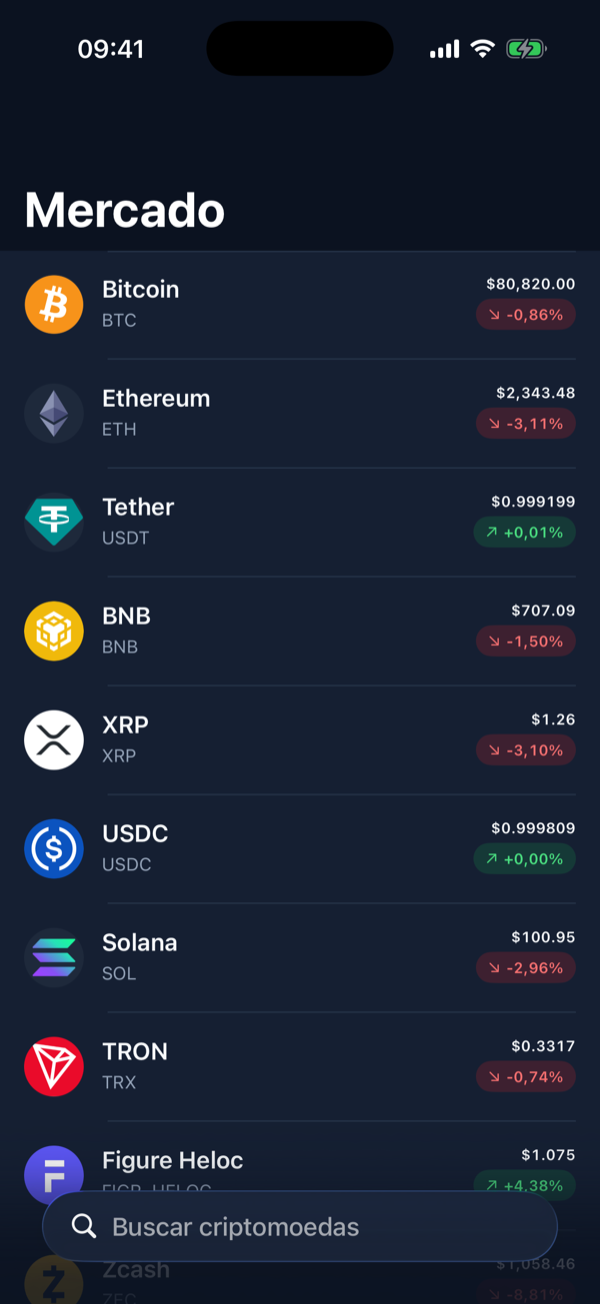
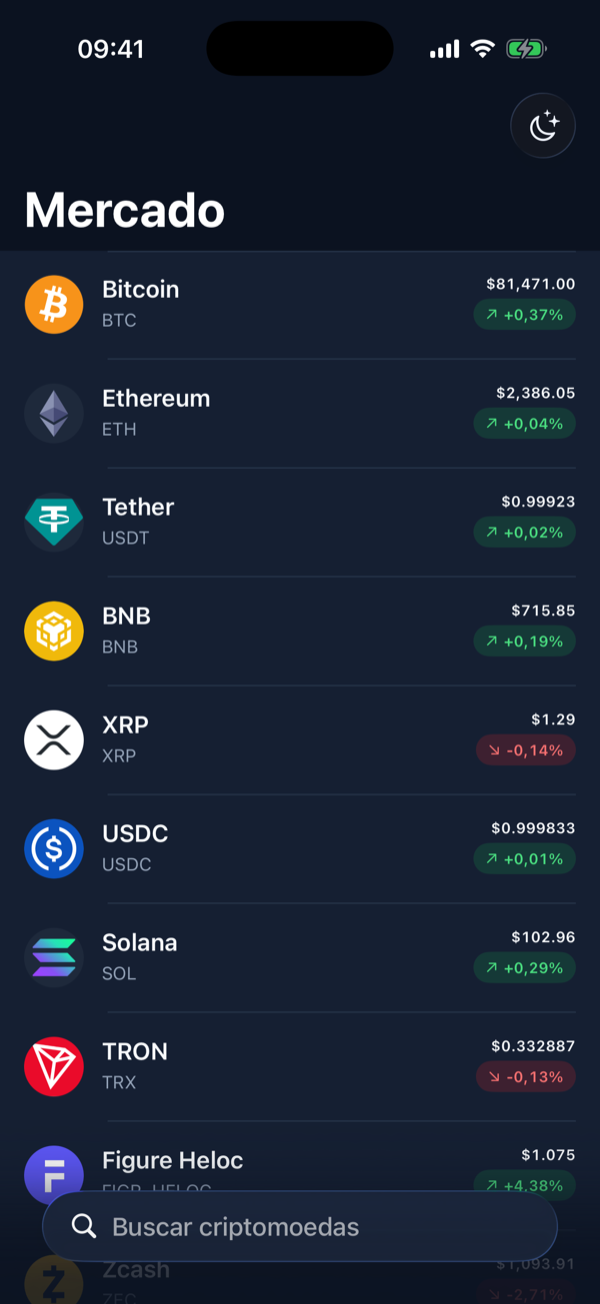
docs: atualiza README e screenshots
Documenta o seletor de aparência e o ThemeManager, troca as capturas da lista pelas versões com o botão de aparência e adiciona o menu aberto à galeria.

diff --git a/README.md b/README.md
@@ -26,10 +26,11 @@
 </p>
 
 <p align="center">
-  <img src="docs/screenshots/list-light.png" alt="Lista de criptomoedas no tema claro, com ícone, nome, símbolo, preço em dólar e badge de variação de 24 horas" width="200" />
-  <img src="docs/screenshots/list-dark.png" alt="A mesma lista no tema escuro" width="200" />
-  <img src="docs/screenshots/detail.png" alt="Detalhe do Bitcoin com preço, variação, preço há 24 horas, máxima, mínima, market cap e gráfico de 7 dias" width="200" />
-  <img src="docs/screenshots/search.png" alt="Busca por usd filtrando as stablecoins carregadas" width="200" />
+  <img src="docs/screenshots/list-light.png" alt="Lista de criptomoedas no tema claro, com ícone, nome, símbolo, preço em dólar, badge de variação de 24 horas e botão de aparência" width="160" />
+  <img src="docs/screenshots/list-dark.png" alt="A mesma lista no tema escuro, escolhido pelo seletor de aparência" width="160" />
+  <img src="docs/screenshots/appearance-menu.png" alt="Menu de aparência aberto com as opções Automático, Claro e Escuro" width="160" />
+  <img src="docs/screenshots/detail.png" alt="Detalhe do Bitcoin com preço, variação, preço há 24 horas, máxima, mínima, market cap e gráfico de 7 dias" width="160" />
+  <img src="docs/screenshots/search.png" alt="Busca por usd filtrando as stablecoins carregadas" width="160" />
 </p>
 
 ---
@@ -48,7 +49,7 @@ O foco está em arquitetura clara, uso idiomático de RxSwift e testes de compor
 - Pull-to-refresh.
 - Detalhe do ativo: preço, variação, preço há 24h, máxima e mínima de 24h, market cap e gráfico de 7 dias.
 - Estados de loading (skeleton), lista vazia, busca sem resultado e erro com retry; o gráfico tem retry próprio.
-- Temas claro e escuro.
+- Seletor de aparência na lista: Automático (segue o sistema), Claro ou Escuro, aplicado na hora em todas as telas e salvo localmente para os próximos acessos.
 - Acessibilidade: Dynamic Type e rótulos de VoiceOver em linhas, badges e gráfico.
 
 ## Stack
@@ -86,8 +87,9 @@ flowchart LR
 
 | Componente | Responsabilidade |
 |---|---|
-| `AppDependencies` | Ponto de composição: cria o serviço e monta cada tela com suas dependências |
+| `AppDependencies` | Ponto de composição: cria o serviço e o `ThemeManager` e monta cada tela com suas dependências |
 | `AppCoordinator` | Navegação: lista como raiz e push do detalhe |
+| `ThemeManager` | Preferência de aparência: guarda a escolha no `UserDefaults` e a aplica na janela principal |
 | View controllers | Layout UIKit, eventos e binding dos estados |
 | View models | Estado de apresentação, busca, paginação e formatação; não importam UIKit |
 | `CoinGeckoService` | Operações da CoinGecko e decodificação; recebe `page`/`perPage` a cada chamada, sem guardar estado de paginação |
@@ -97,7 +99,7 @@ O SRP aparece nas fronteiras. O `CoinGeckoService` recebe `page` e `perPage` em 
 
 ```text
 MarketWatch/
-├── App/            AppDelegate, SceneDelegate, AppCoordinator, AppDependencies
+├── App/            AppDelegate, SceneDelegate, AppCoordinator, AppDependencies, ThemeManager
 ├── CoinGecko/      endpoint, serviço e modelos
 ├── Networking/     HTTPClient, AlamofireHTTPClient, APIError
 ├── DesignSystem/   cores, tipografia, badge, estados e skeleton
